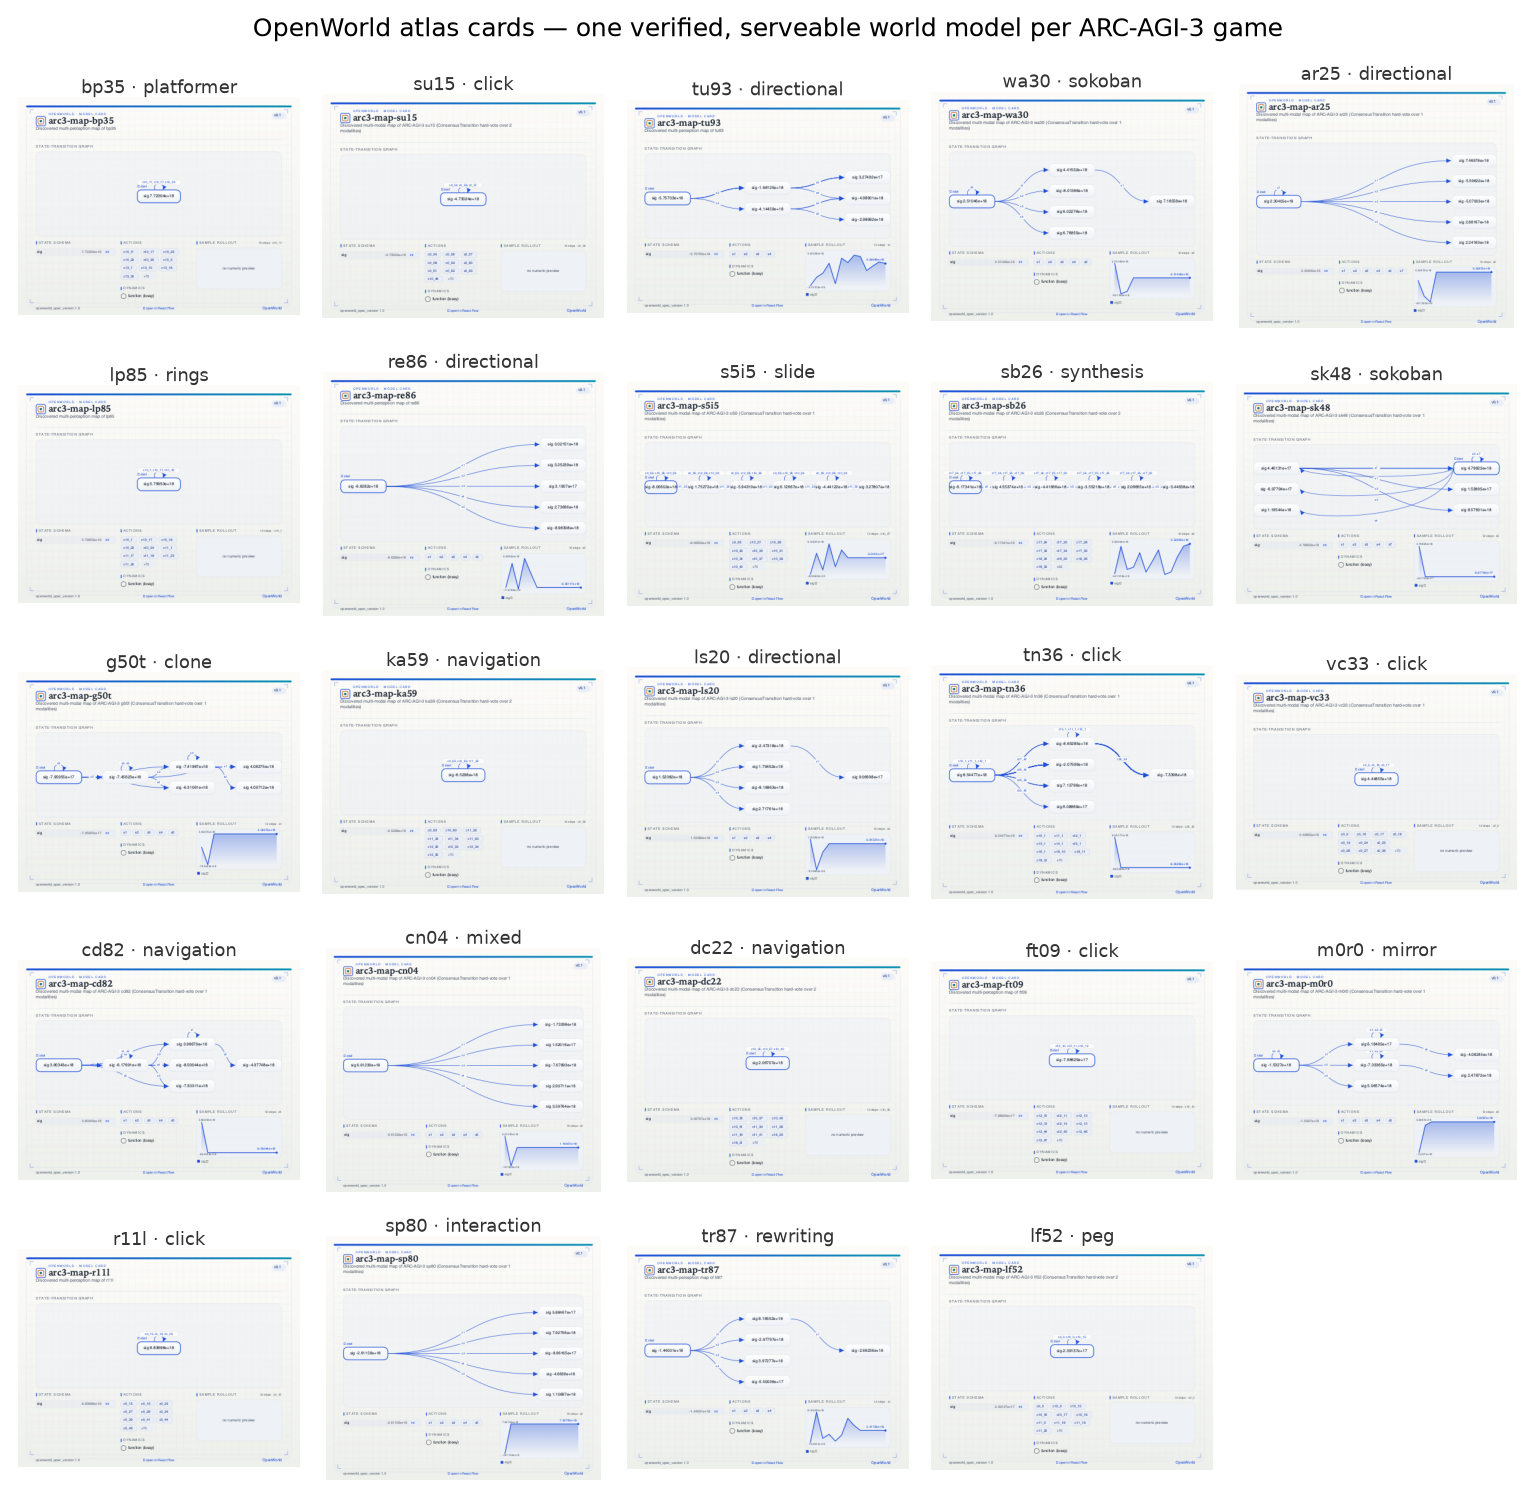
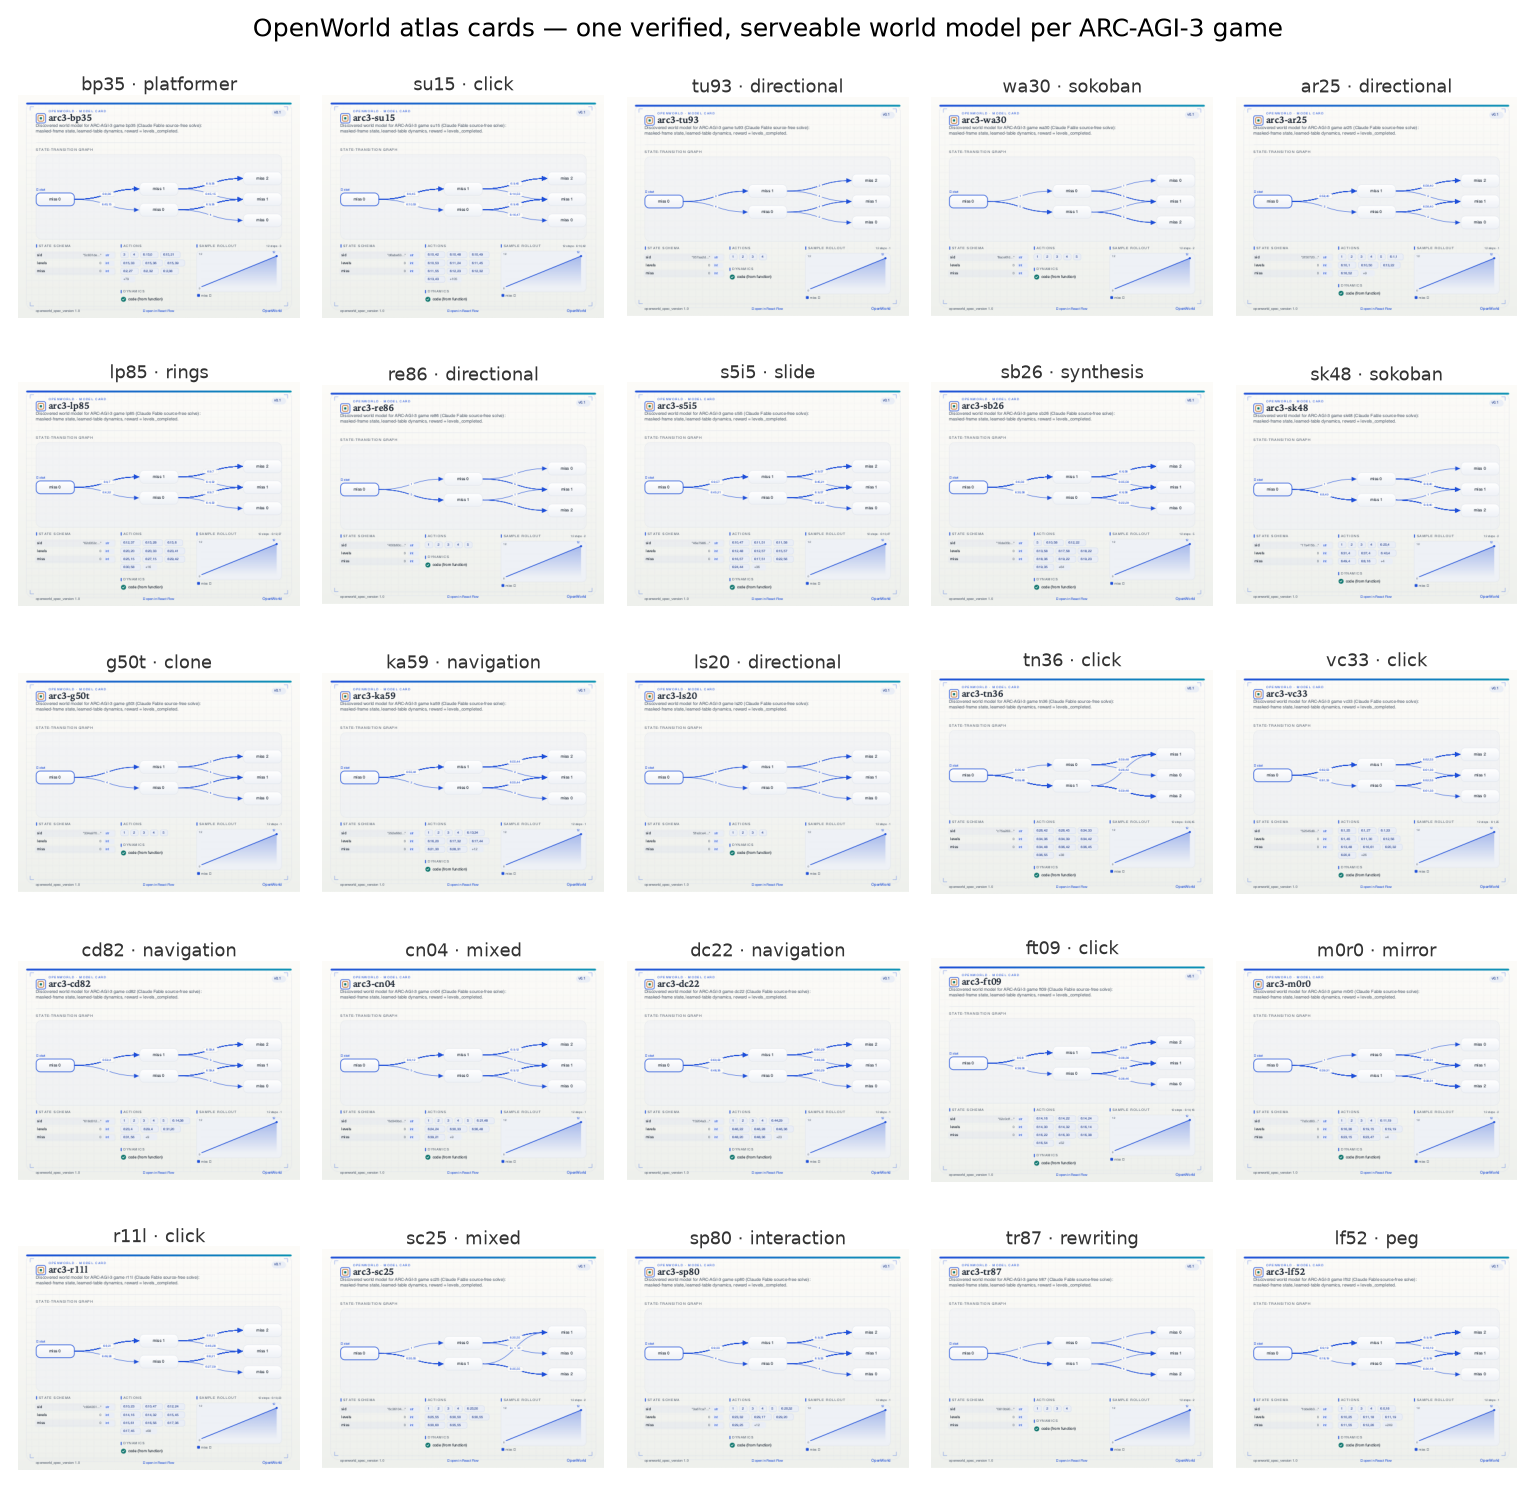
arc-3 paper: regenerate the OpenWorld atlas from the Fable 25/25 run (all 25 cards)
The atlas gallery previously showed 24 cards from the earlier (primary) solves, with
sc25 pending. Regenerate every card from the CLAUDE FABLE source-free 25/25 solve:

  scripts/build_arc3_fable_maps.py replays each game's banked Fable solution in the
  real engine, treats the discovered masked-frame state graph as an OpenWorld World
  (masked-frame perceptor -> symbolic state, learned-table FunctionTransition, induced
  CodeObjective), and render_cards it to papers/arc-3/maps/<game>.svg -- the exact
  e121 round-trip recipe pointed at the Fable archive.

Result: all 25 cards regenerated from Fable (incl. lf52 depth-10/915-state and sc25,
previously pending) -> 25-card gallery (was 24). Caption updated to note the cards are
the Fable 25/25 solve and how they are built. Compiles clean, no undefined refs.

diff --git a/scripts/build_arc3_fable_maps.py b/scripts/build_arc3_fable_maps.py
@@ -1,0 +1,117 @@
+"""Render an OpenWorld atlas card (papers/arc-3/maps/<game>.svg) for every game from the CLAUDE FABLE
+25/25 source-free solve, so the maps gallery reflects the landmark run (not the earlier primary solves).
+
+For each game we replay Fable's banked solution in the real engine, treat the discovered masked-frame
+state-transition graph as a World (masked-frame perceptor -> symbolic state, learned-table
+FunctionTransition, induced CodeObjective), and render_card it -- the exact recipe of
+experiments/e121_openworld_roundtrip.py, pointed at the Fable archive instead of the primary solves.
+
+Run with the arcv interpreter (has arc_agi); openworld is imported from the repo root:
+    /Users/jim/.arcv/bin/python scripts/build_arc3_fable_maps.py
+Then regenerate the gallery composite with scripts/make_arc3_assets.py.
+"""
+import os, sys, json, hashlib
+from pathlib import Path
+import numpy as np
+
+ROOT = Path(__file__).resolve().parent.parent
+SCR = ROOT / "scratch_arc"
+MAPS = ROOT / "papers" / "arc-3" / "maps"
+FABLE = ROOT / "experiments" / "results" / "arc3_fullgame_sourcefree_fable.json"
+sys.path.insert(0, str(SCR / "full_lf52"))          # arc3_harness
+sys.path.insert(0, str(ROOT))                        # openworld core
+os.chdir(ROOT)                                       # environment_files/ resolves here
+
+from openworld import World, Action, FunctionTransition, CodeObjective, render_card  # noqa: E402
+
+GAMES = ("ar25 bp35 cd82 cn04 dc22 ft09 g50t ka59 lf52 lp85 ls20 m0r0 r11l re86 s5i5 sb26 sc25 sk48 "
+         "sp80 su15 tn36 tr87 tu93 vc33 wa30").split()
+
+
+def act_key(a):
+    if isinstance(a, int):
+        return str(a), {}, str(a)
+    a = list(a)
+    if a[0] == 6:
+        return "6", {"x": int(a[1]), "y": int(a[2])}, f"6:{int(a[1])},{int(a[2])}"
+    return str(a[0]), {}, str(a[0])
+
+
+def trace(game, actions):
+    from arc3_harness import Game
+    g = Game(game); g.reset()
+    frames = [g.frame.copy()]; deltas = []; keys = []; base = g.levels; last = g.levels
+    for a in actions:
+        name, params, key = act_key(a)
+        g.step(*([int(name)] if not params else [6, params["x"], params["y"]]))
+        frames.append(g.frame.copy()); deltas.append(g.levels - last); keys.append((name, params, key))
+        last = g.levels
+        if g.done:
+            break
+    return frames, deltas, keys, g.levels - base
+
+
+def state_ids(frames, indexed=False):
+    F = np.stack([f.reshape(64, 64) for f in frames])
+    if not indexed:
+        mask = (F[1:] != F[:-1]).mean(axis=0) <= 0.95
+        m = (F * mask).astype(np.int16)
+        return [hashlib.blake2b(m[i].tobytes(), digest_size=8).hexdigest() for i in range(len(F))]
+    return [f"{hashlib.blake2b(F[i].tobytes(), digest_size=8).hexdigest()}#{i}" for i in range(len(F))]
+
+
+def build_table(sids, deltas, keys):
+    table, ok = {}, True
+    for i, (_, _, k) in enumerate(keys):
+        key = (sids[i], k); val = (sids[i + 1], int(deltas[i]))
+        if key in table and table[key] != val:
+            ok = False
+        table[key] = val
+    return table, ok
+
+
+def make_world(game, init_sid, table):
+    def fn(state, action):
+        name, params = action["name"], action.get("params") or {}
+        k = name if not params else f"{name}:{params['x']},{params['y']}"
+        nxt = table.get((state["sid"], k))
+        if nxt is None:
+            return {"sid": state["sid"], "levels": state["levels"], "miss": state.get("miss", 0) + 1}
+        return {"sid": nxt[0], "levels": state["levels"] + nxt[1], "miss": state.get("miss", 0)}
+    actions = sorted({k for (_, k) in table.keys()})
+    w = World(name=f"arc3-{game}",
+              description=f"Discovered world model for ARC-AGI-3 game {game} (Claude Fable source-free "
+                          f"solve): masked-frame state, learned-table dynamics, reward = levels_completed.",
+              initial_state={"sid": init_sid, "levels": 0, "miss": 0},
+              actions=actions, transition=FunctionTransition(fn))
+    w._objective = CodeObjective("def reward(state):\n    return float(state.get('levels', 0))\n",
+                                 name="levels_completed", func_name="reward",
+                                 description="induced reward: ARC-AGI-3 levels completed")
+    return w
+
+
+def main():
+    sols = json.load(open(FABLE)).get("solutions", {})
+    MAPS.mkdir(parents=True, exist_ok=True)
+    ok = 0
+    for g in GAMES:
+        acts = sols.get(g)
+        if not acts:
+            print(f"  {g}: no Fable solution, skip"); continue
+        try:
+            frames, deltas, keys, depth = trace(g, acts)
+            sids = state_ids(frames, indexed=False)
+            table, det = build_table(sids, deltas, keys)
+            if not det:                                        # masking too coarse -> path world
+                sids = state_ids(frames, indexed=True); table, _ = build_table(sids, deltas, keys)
+            world = make_world(g, sids[0], table)
+            render_card(world, path=str(MAPS / f"{g}.svg"))    # write the atlas card SVG
+            ok += 1
+            print(f"  {g}: depth={depth} states={len(set(sids))} -> maps/{g}.svg", flush=True)
+        except Exception as e:
+            print(f"  {g}: ERROR {e}", flush=True)
+    print(f"rendered {ok}/{len(GAMES)} Fable atlas cards")
+
+
+if __name__ == "__main__":
+    main()

diff --git a/papers/arc-3/main.tex b/papers/arc-3/main.tex
@@ -954,11 +954,13 @@ levels, \ArcFullGames/\ArcUnionGames{} full games.}
 \begin{figure}[p]
 \centering
 \includegraphics[width=\textwidth,height=0.88\textheight,keepaspectratio]{figs/arc3_maps_gallery.png}
-\caption{\textbf{The OpenWorld atlas: one verified, serveable world model per game.} Every ARC-AGI-3
-solver is an \openworld{} \texttt{World} whose spec renders a self-contained card (numeric rollout
-\texttt{series} $+$ a bounded state-transition \texttt{graph}, the ``map''), viewable live in
-\texttt{openworld serve /view}. The same artifact that solves the game is the artifact you download and
-build on. (Cards shown for the 24 games with a generated map; \texttt{sc25}'s is pending.)}
+\caption{\textbf{The OpenWorld atlas: one verified, serveable world model per game.} All
+\ArcFableFull{} games from the \textbf{Claude Fable \ArcFableFull/\ArcUnionGames{} source-free solve}, each
+an \openworld{} \texttt{World} whose spec renders a self-contained card (numeric rollout \texttt{series}
+$+$ a bounded state-transition \texttt{graph}, the ``map''), viewable live in \texttt{openworld serve
+/view}. Each card is built by replaying the game's banked Fable solution in the real engine and treating
+the discovered masked-frame state graph as a \texttt{World} (\texttt{scripts/build\_arc3\_fable\_maps.py}).
+The same artifact that solves the game is the artifact you download and build on.}
 \label{fig:arc3gallery}
 \end{figure}
 